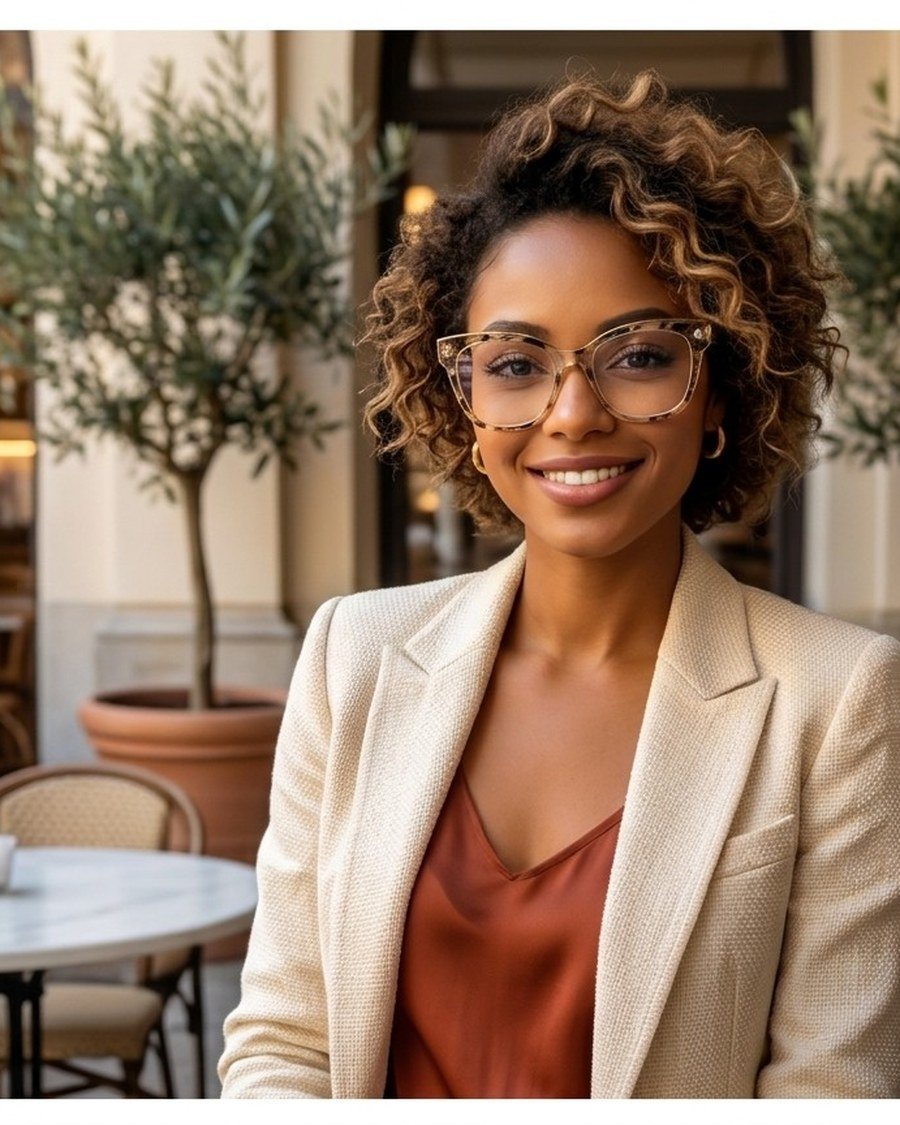
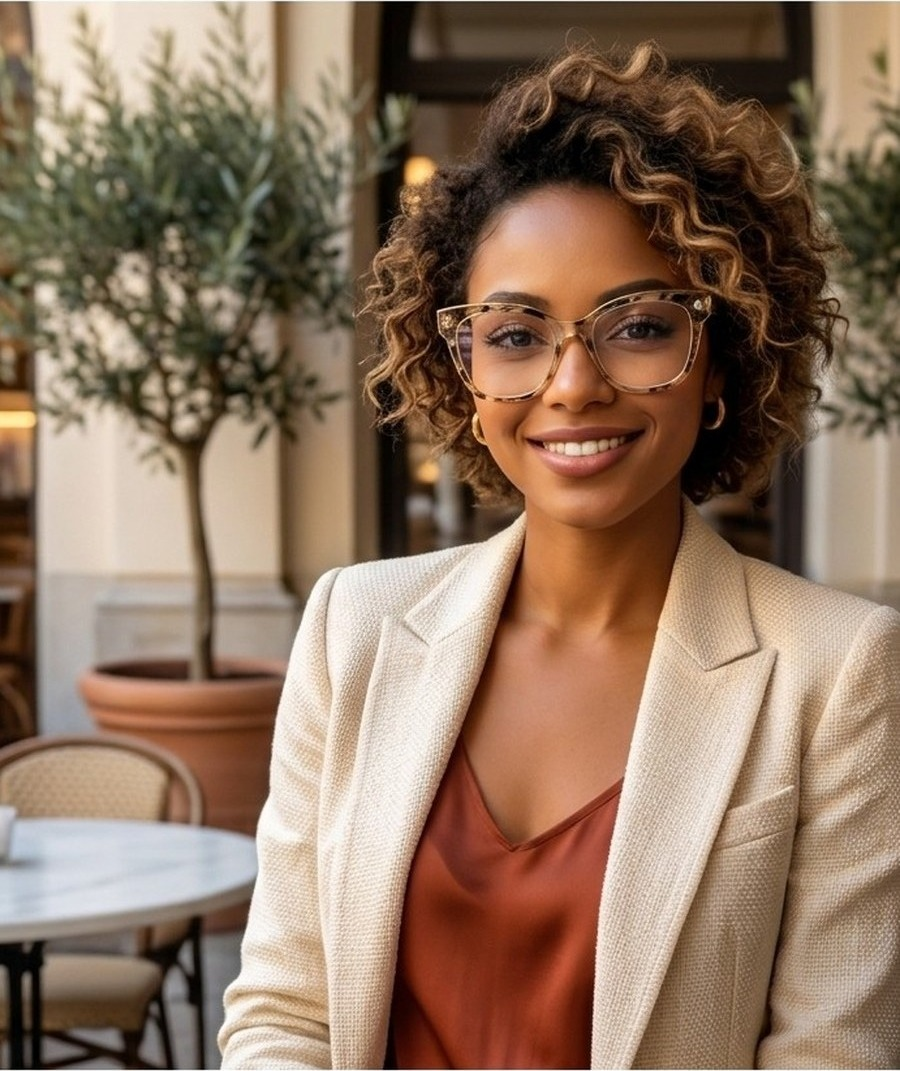
Refina catálogo: fotos normalizadas, hero sem borda e detalhes funcionais
Uniformiza o fundo das fotos de produto com flat-field, espelha a p01 para
alinhar a orientação com as demais, apara a faixa branca gravada no
hero-modelo e corrige o "Ver detalhes", que não recolhia por causa do
display:flex vencendo o atributo hidden.

diff --git a/style.css b/style.css
@@ -47,8 +47,8 @@ body{font-family:var(--sans);color:var(--ink);background:var(--white);line-heigh
 .btn-dark:hover{background:var(--navy-2);}
 .btn-ghost{border:1px solid rgba(255,255,255,.42);color:var(--white);}
 .btn-ghost:hover{border-color:var(--gold);color:var(--gold);}
-.btn-ghost-light{border:1px solid rgba(11,27,61,.28);color:var(--navy);}
-.btn-ghost-light:hover{border-color:var(--navy);}
+.btn-ghost-light{border:1px solid rgba(255,255,255,.45);color:var(--white);background:transparent;white-space:nowrap;}
+.btn-ghost-light:hover{border-color:var(--white);background:rgba(255,255,255,.1);}
 
 .section-inner{max-width:var(--maxw);margin-inline:auto;padding-inline:1.4rem;}
 .section-title{font-family:var(--serif);font-weight:600;color:var(--navy);font-size:clamp(1.8rem,4vw,2.4rem);line-height:1.2;}
@@ -62,7 +62,7 @@ body{font-family:var(--sans);color:var(--ink);background:var(--white);line-heigh
 .site-header{background:var(--navy);color:var(--white);position:sticky;top:0;z-index:60;}
 .header-inner{max-width:var(--maxw);margin-inline:auto;padding:.9rem 1.4rem;display:flex;align-items:center;gap:1.2rem;}
 .logo-link{display:flex;align-items:center;gap:.7rem;}
-.logo-img{width:52px;height:52px;border-radius:50%;box-shadow:0 0 0 1px rgba(198,161,91,.5);}
+.logo-img{width:52px;height:52px;border-radius:50%;background:var(--cream);padding:2px;box-shadow:0 0 0 2px var(--gold-light);}
 .logo-text{font-family:var(--serif);font-weight:600;letter-spacing:.05em;line-height:1.1;color:var(--gold);font-size:1rem;}
 .logo-text small{display:block;font-size:.52rem;letter-spacing:.3em;font-family:var(--sans);font-weight:500;color:var(--white);margin-top:.15rem;}
 
@@ -148,7 +148,7 @@ body.no-scroll{overflow:hidden;}
 .hero-photo img{width:100%;height:auto;aspect-ratio:4/5;object-fit:cover;object-position:center 30%;}
 .hero-photo-fade{position:absolute;inset:0;background:linear-gradient(180deg,transparent 55%,rgba(11,27,61,.55));pointer-events:none;}
 .hero-badge{position:absolute;bottom:-1.2rem;right:-.8rem;width:118px;height:118px;}
-.hero-badge img{opacity:.92;filter:drop-shadow(0 8px 20px rgba(0,0,0,.45));}
+.hero-badge img{width:100%;height:100%;opacity:.92;border-radius:50%;background:var(--cream);padding:6px;box-shadow:0 0 0 2px rgba(226,196,141,.35);filter:drop-shadow(0 8px 20px rgba(0,0,0,.45));}
 @media (min-width:900px){
   .hero-inner{grid-template-columns:1.05fr 1fr;}
   .hero-badge{width:170px;height:170px;bottom:-1.6rem;right:1.4rem;}
@@ -162,11 +162,13 @@ body.no-scroll{overflow:hidden;}
 .category-media{display:block;position:relative;overflow:hidden;aspect-ratio:16/10;}
 .category-media img{width:100%;height:100%;object-fit:cover;transition:transform .5s var(--ease);}
 .category-card:hover .category-media img{transform:scale(1.04);}
-.category-info{padding:1.4rem 1.4rem 1.5rem;display:flex;flex-direction:column;gap:.5rem;align-items:flex-start;flex:1;}
-.category-info h3{font-family:var(--serif);font-size:1.35rem;color:var(--navy);}
-.category-info p{color:var(--muted);font-size:.9rem;flex:1;}
-.category-info .btn{margin-top:.6rem;}
-@media (min-width:760px){ .category-grid{grid-template-columns:1fr 1fr;} }
+.category-info{padding:1.1rem 1.2rem 1.25rem;display:flex;flex-direction:column;gap:.4rem;align-items:flex-start;flex:1;}
+.category-info h3{font-family:var(--serif);font-size:1.2rem;color:var(--navy);}
+.category-info p{color:var(--muted);font-size:.84rem;flex:1;}
+.category-info .btn{margin-top:.4rem;padding:.65rem 1.1rem;font-size:.82rem;}
+@media (min-width:640px){
+  .category-grid{display:grid;grid-template-columns:1fr 1fr;align-items:start;}
+}
 
 /* Barra de beneficios */
 .features-bar{background:var(--navy);color:var(--white);padding:2.6rem 0;}
@@ -194,15 +196,16 @@ body.no-scroll{overflow:hidden;}
 .bf-unit{background:rgba(0,0,0,.22);border-radius:8px;padding:.7rem .3rem;}
 .bf-unit strong{display:block;font-family:var(--serif);font-size:1.5rem;line-height:1;color:var(--white);}
 .bf-unit small{display:block;margin-top:.35rem;font-size:.66rem;letter-spacing:.08em;text-transform:uppercase;color:#b9c2d6;}
-.bf-panel-note{margin-top:1rem;font-size:.7rem;color:#9aa4bb;}
-.bf-panel-note code{font-size:.68rem;}
 @media (min-width:860px){ .blackfriday-inner{grid-template-columns:1.6fr 1fr;} }
 
 /* Showcase / filtros */
 .showcase{padding:4.2rem 0;}
-.showcase-head{display:flex;justify-content:space-between;align-items:flex-end;gap:1rem;flex-wrap:wrap;}
 .showcase-head .section-title{margin-top:.5rem;}
-.filter-bar{display:flex;flex-wrap:wrap;gap:.5rem;margin-top:1.6rem;}
+.filter-bar{display:flex;flex-wrap:wrap;align-items:center;gap:.5rem;margin-top:1.6rem;}
+.filter-group{display:flex;flex-wrap:wrap;gap:.5rem;}
+.filter-bar .link-all{margin-left:auto;font-size:.84rem;font-weight:600;color:var(--navy);border-bottom:1px solid var(--gold);padding-bottom:.1rem;}
+.filter-bar .link-all:hover{color:var(--gold);}
+@media (max-width:639px){ .filter-bar .link-all{margin-left:0;width:100%;margin-top:.4rem;} }
 .filter-btn{border:1px solid #e0d8c6;border-radius:999px;padding:.5rem 1.05rem;font-size:.84rem;font-weight:500;color:var(--muted);transition:all .2s var(--ease);}
 .filter-btn:hover{border-color:var(--gold);color:var(--navy);}
 .filter-btn.is-active{background:var(--navy);border-color:var(--navy);color:var(--white);}
@@ -213,7 +216,7 @@ body.no-scroll{overflow:hidden;}
 .product-card:hover{box-shadow:0 16px 36px rgba(11,27,61,.11);transform:translateY(-3px);}
 .product-media{position:relative;background:var(--cream-2);aspect-ratio:1/1;overflow:hidden;}
 .product-media img{width:100%;height:100%;object-fit:cover;transition:transform .45s var(--ease);}
-.product-card:hover .product-media img{transform:scale(1.05);}
+.product-card:hover .product-media img{transform:scale(1.1);}
 .product-tag{position:absolute;top:.6rem;left:.6rem;background:rgba(11,27,61,.86);color:var(--gold);font-size:.66rem;letter-spacing:.06em;text-transform:uppercase;font-weight:600;padding:.3rem .6rem;border-radius:999px;}
 .product-add{position:absolute;bottom:.6rem;right:.6rem;background:var(--gold);color:var(--navy);width:36px;height:36px;border-radius:50%;display:grid;place-items:center;box-shadow:0 6px 16px rgba(11,27,61,.28);transition:transform .2s var(--ease),background .2s;}
 .product-add:hover{transform:scale(1.08);background:var(--gold-light);}
@@ -228,25 +231,27 @@ body.no-scroll{overflow:hidden;}
 .product-details{margin-top:.5rem;color:var(--gold);font-size:.78rem;font-weight:600;align-self:flex-start;border-bottom:1px solid transparent;}
 .product-details:hover{border-bottom-color:var(--gold);}
 .product-specs{margin-top:.6rem;border-top:1px solid #eee7d9;padding-top:.6rem;display:flex;flex-direction:column;gap:.35rem;font-size:.76rem;}
+.product-specs[hidden]{display:none;}
 .product-specs li{display:flex;justify-content:space-between;gap:.8rem;color:var(--muted);}
 .product-specs li span:first-child{color:#8c94a8;}
 .product-specs li span:last-child{text-align:right;color:var(--ink);}
 
 /* Editorial */
 .editorial{background:var(--cream);padding:4rem 0;}
-.editorial-grid{display:grid;gap:2.2rem;align-items:center;}
+.editorial-grid{display:grid;gap:2.6rem;}
 .editorial-photo img{width:100%;height:auto;border-radius:12px;object-fit:cover;box-shadow:0 18px 40px rgba(11,27,61,.14);}
 .editorial-copy .section-title{margin:.6rem 0 1rem;}
-.editorial-copy > p:not(.eyebrow){color:var(--muted);font-size:.95rem;max-width:48ch;}
+.editorial-copy{max-width:760px;}
+.editorial-copy > p:not(.eyebrow){color:var(--muted);font-size:.95rem;max-width:60ch;}
 .editorial-list{margin:1.4rem 0 1.8rem;display:flex;flex-direction:column;gap:.7rem;font-size:.9rem;}
 .editorial-list li{display:flex;align-items:center;gap:.7rem;}
 .editorial-list .icon{color:var(--gold);width:19px;height:19px;}
-@media (min-width:860px){ .editorial-grid{grid-template-columns:1fr 1fr;} }
+@media (min-width:860px){ .editorial-copy{max-width:none;} .editorial-copy > p:not(.eyebrow){max-width:62ch;} }
 
 /* Footer */
 .site-footer{background:var(--navy);color:#c3cadd;padding:3.6rem 0 0;}
 .footer-grid{display:grid;gap:2.4rem;padding-bottom:2.6rem;border-bottom:1px solid var(--line);}
-.footer-logo{width:80px;height:80px;border-radius:50%;margin-bottom:.8rem;}
+.footer-logo{width:80px;height:80px;border-radius:50%;background:var(--cream);padding:4px;box-shadow:0 0 0 2px rgba(226,196,141,.45);margin-bottom:.8rem;}
 .footer-brand p{margin-top:.7rem;font-size:.86rem;max-width:32ch;}
 .footer-brand .logo-text{margin-top:.7rem;}
 .social-links{display:flex;gap:.6rem;margin-top:1rem;}

diff --git a/index.html b/index.html
@@ -6,11 +6,11 @@
 <title>RISSAS ÓTICA — Armações e óculos solares</title>
 <meta name="description" content="Armações de grau e óculos solares selecionados. Frete para todo o Brasil, 2x sem juros ou até 10x com juros.">
 <meta name="theme-color" content="#0B1B3D">
-<link rel="icon" type="image/png" href="assets/favicon.png">
+<link rel="icon" type="image/png" href="assets/favicon-badge.png">
 <link rel="preconnect" href="https://fonts.googleapis.com">
 <link rel="preconnect" href="https://fonts.gstatic.com" crossorigin>
 <link href="https://fonts.googleapis.com/css2?family=Playfair+Display:wght@500;600;700&family=Poppins:wght@300;400;500;600;700&display=swap" rel="stylesheet">
-<link rel="stylesheet" href="style.css">
+<link rel="stylesheet" href="style.css?v=4">
 </head>
 <body>
 <a class="skip-link" href="#main">Pular para o conteúdo</a>
@@ -55,7 +55,7 @@
 <header class="site-header">
   <div class="header-inner">
     <a class="logo-link" href="#main" aria-label="RISSAS ÓTICA — página inicial">
-      <img class="logo-img" src="assets/logo-rissas-circle.png" alt="" width="46" height="46">
+      <img class="logo-img" src="assets/logo-rissas-badge.png" alt="" width="52" height="52">
       <span class="logo-text">RISSAS<small>ÓTICA</small></span>
     </a>
     <button class="menu-toggle" id="menuToggle" aria-expanded="false" aria-controls="mainNav" aria-label="Abrir menu">
@@ -145,10 +145,10 @@
       </div>
       <div class="hero-media">
         <figure class="hero-photo">
-          <img src="assets/hero-modelo.jpg" alt="Modelo usando armação de grau" width="900" height="1125" fetchpriority="high">
+          <img src="assets/hero-modelo.jpg" alt="Modelo usando armação de grau" width="900" height="1071" fetchpriority="high">
           <span class="hero-photo-fade" aria-hidden="true"></span>
         </figure>
-        <div class="hero-badge"><img src="assets/logo-rissas-circle.png" alt="Rissas Ótica" width="170" height="170"></div>
+        <div class="hero-badge"><img src="assets/logo-rissas-badge.png" alt="Rissas Ótica" width="170" height="170"></div>
       </div>
     </div>
   </section>
@@ -170,7 +170,7 @@
         </article>
         <article class="category-card">
           <a class="category-media" href="#produtos" data-filter-link="solar">
-            <img src="assets/categoria-solares.jpg" alt="Mulher usando óculos de sol" width="1000" height="693" loading="lazy">
+            <img src="assets/categoria-solares.jpg" alt="Homem usando óculos de sol" width="1000" height="693" loading="lazy">
           </a>
           <div class="category-info">
             <h3>Óculos Solares</h3>
@@ -210,7 +210,6 @@
           <span class="bf-unit"><strong id="bfMinutes">00</strong><small>min</small></span>
           <span class="bf-unit"><strong id="bfSeconds">00</strong><small>seg</small></span>
         </div>
-        <p class="bf-panel-note">Data ajustável em <code>script.js</code>.</p>
       </aside>
     </div>
   </section>
@@ -222,13 +221,15 @@
           <p class="eyebrow">Nossa coleção</p>
           <h2 class="section-title">Encontre o seu próximo queridinho</h2>
         </div>
-        <a href="https://wa.me/5535988836974" class="link-all" target="_blank" rel="noopener">Fale com a gente</a>
       </div>
-      <div class="filter-bar" role="group" aria-label="Filtrar por categoria">
-        <button class="filter-btn is-active" data-filter="all" aria-pressed="true">Todos</button>
-        <button class="filter-btn" data-filter="armacao" aria-pressed="false">Armações</button>
-        <button class="filter-btn" data-filter="solar" aria-pressed="false">Óculos Solares</button>
-        <button class="filter-btn" data-filter="black" aria-pressed="false">Ofertas Black Friday</button>
+      <div class="filter-bar">
+        <div class="filter-group" role="group" aria-label="Filtrar por categoria">
+          <button class="filter-btn is-active" data-filter="all" aria-pressed="true">Todos</button>
+          <button class="filter-btn" data-filter="armacao" aria-pressed="false">Armações</button>
+          <button class="filter-btn" data-filter="solar" aria-pressed="false">Óculos Solares</button>
+          <button class="filter-btn" data-filter="black" aria-pressed="false">Ofertas Black Friday</button>
+        </div>
+        <a href="https://wa.me/5535988836974" class="link-all" target="_blank" rel="noopener">Fale com a gente</a>
       </div>
       <p class="search-status" id="searchStatus" aria-live="polite"></p>
       <ul class="product-grid" id="productGrid"></ul>
@@ -238,7 +239,7 @@
   <section class="editorial">
     <div class="section-inner editorial-grid">
       <figure class="editorial-photo">
-        <img src="assets/lifestyle-grau.jpg" alt="Mulher usando óculos de grau" width="1200" height="811" loading="lazy">
+        <img src="assets/expositor-rissas.jpg" alt="Expositor de óculos da Rissas Ótica" width="2080" height="756">
       </figure>
       <div class="editorial-copy">
         <p class="eyebrow">Sobre a Rissas</p>
@@ -258,7 +259,7 @@
 <footer class="site-footer" id="footer">
   <div class="section-inner footer-grid">
     <div class="footer-brand">
-      <img class="footer-logo" src="assets/logo-rissas-circle.png" alt="RISSAS ÓTICA" width="80" height="80" loading="lazy">
+      <img class="footer-logo" src="assets/logo-rissas-badge.png" alt="RISSAS ÓTICA" width="80" height="80" loading="lazy">
       <p class="logo-text">RISSAS<small>ÓTICA</small></p>
       <p>Mais que óculos, uma nova forma de ver o mundo.</p>
       <div class="social-links">
@@ -305,7 +306,8 @@
   </div>
 </footer>
 
-<script src="produtos.js"></script>
-<script src="script.js"></script>
+<script src="produtos.js?v=3"></script>
+<script src="assets/fotos.js?v=7"></script>
+<script src="script.js?v=4"></script>
 </body>
 </html>

diff --git a/script.js b/script.js
@@ -117,9 +117,15 @@
   setInterval(tickCountdown, 1000);
 
   /* ---------- Produtos ---------- */
+  // Fotos reais entram por assets/fotos.js, que só lista os arquivos que existem
+  // em assets/fotos-novas-normalizadas/. Sem foto, o card usa os renders de produtos-crop.
+  var FOTOS = window.FOTOS || {};
+
   var PRODUCTS = (window.PRODUTOS || []).map(function (row) {
+    var foto = FOTOS[row[0].split("-")[0]];
     return {
-      img: "assets/produtos-clean/" + row[0],
+      // ?v=5 fura o cache do navegador: as fotos mudaram, mas o nome do arquivo não.
+      img: foto ? "assets/fotos-novas-normalizadas/" + foto + "?v=7" : "assets/produtos-crop/" + row[0],
       category: row[1],
       tag: row[2],
       code: row[3],

diff --git a/assets/fotos.js b/assets/fotos.js
@@ -1,0 +1,17 @@
+window.FOTOS = {
+  "p01": "p01.jpg",
+  "p03": "p03.jpg",
+  "p04": "p04.jpg",
+  "p05": "p05.jpg",
+  "p06": "p06.jpg",
+  "p07": "p07.jpg",
+  "p08": "p08.jpg",
+  "p09": "p09.jpg",
+  "p10": "p10.jpg",
+  "p11": "p11.jpg",
+  "p12": "p12.jpg",
+  "p13": "p13.jpg",
+  "p14": "p14.jpg",
+  "p15": "p15.jpg",
+  "p16": "p16.jpg"
+};
